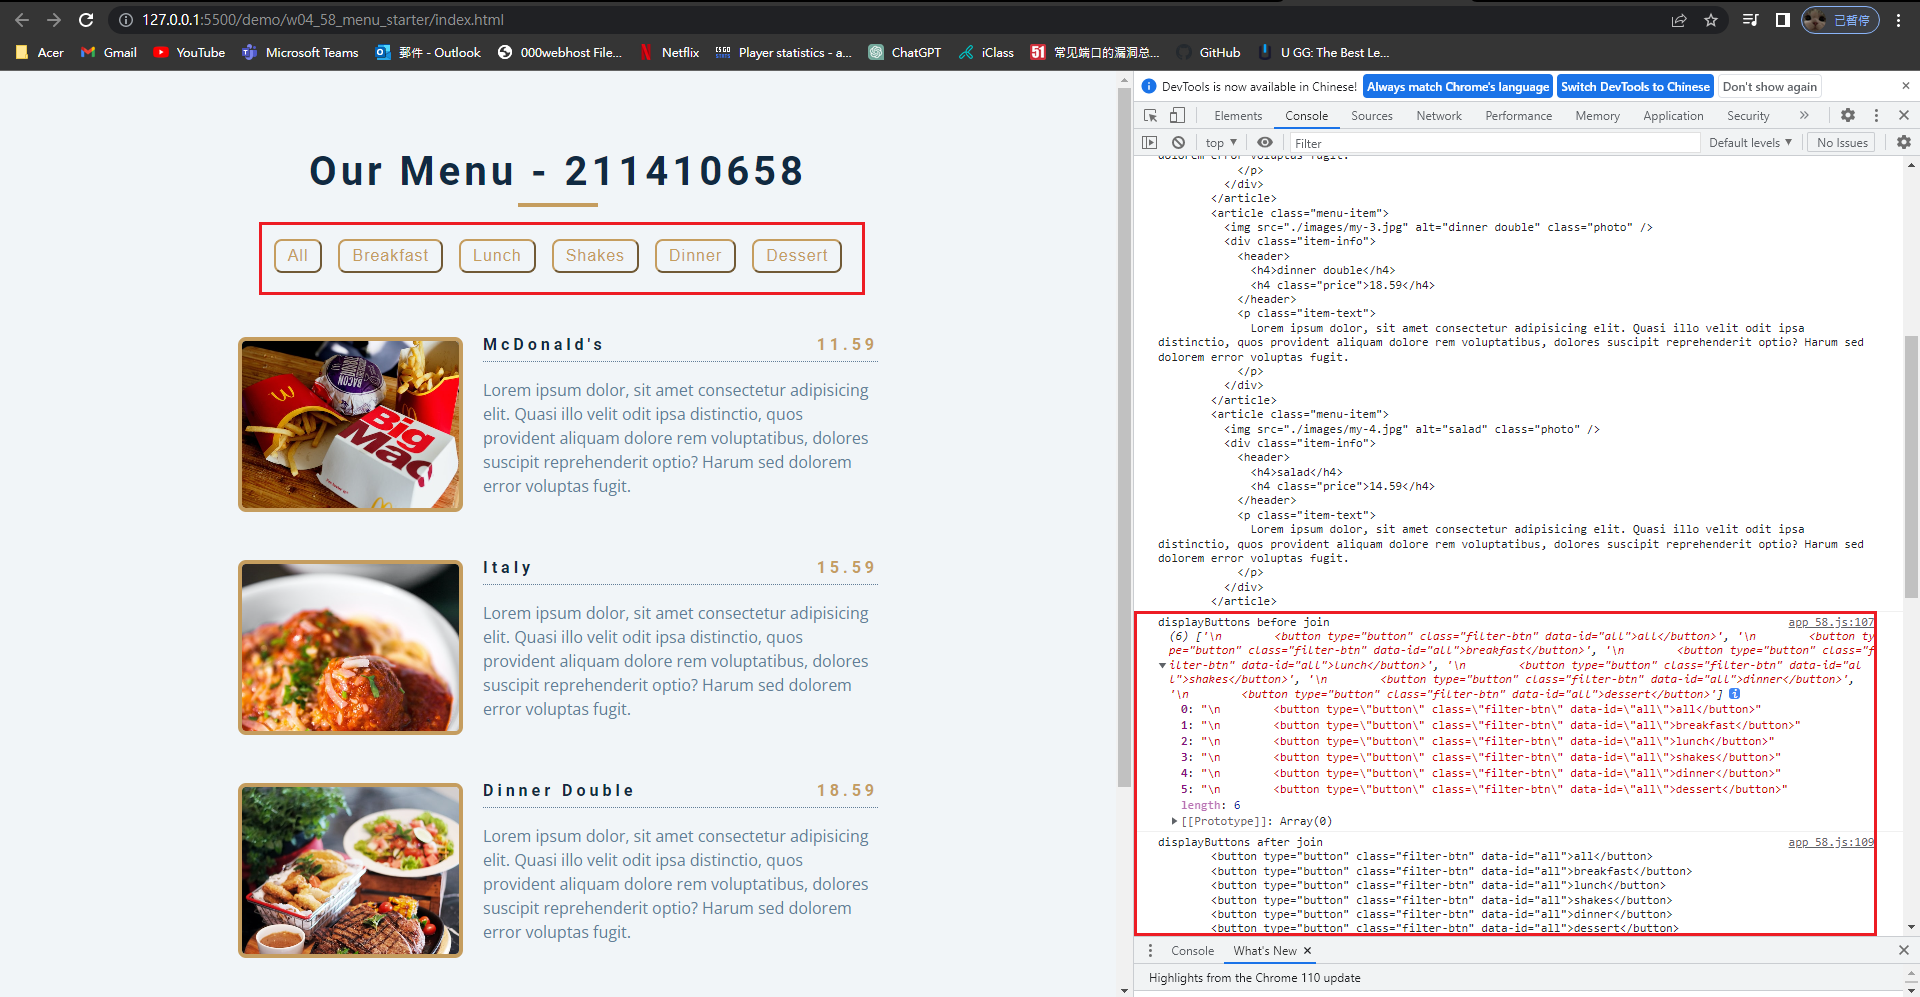
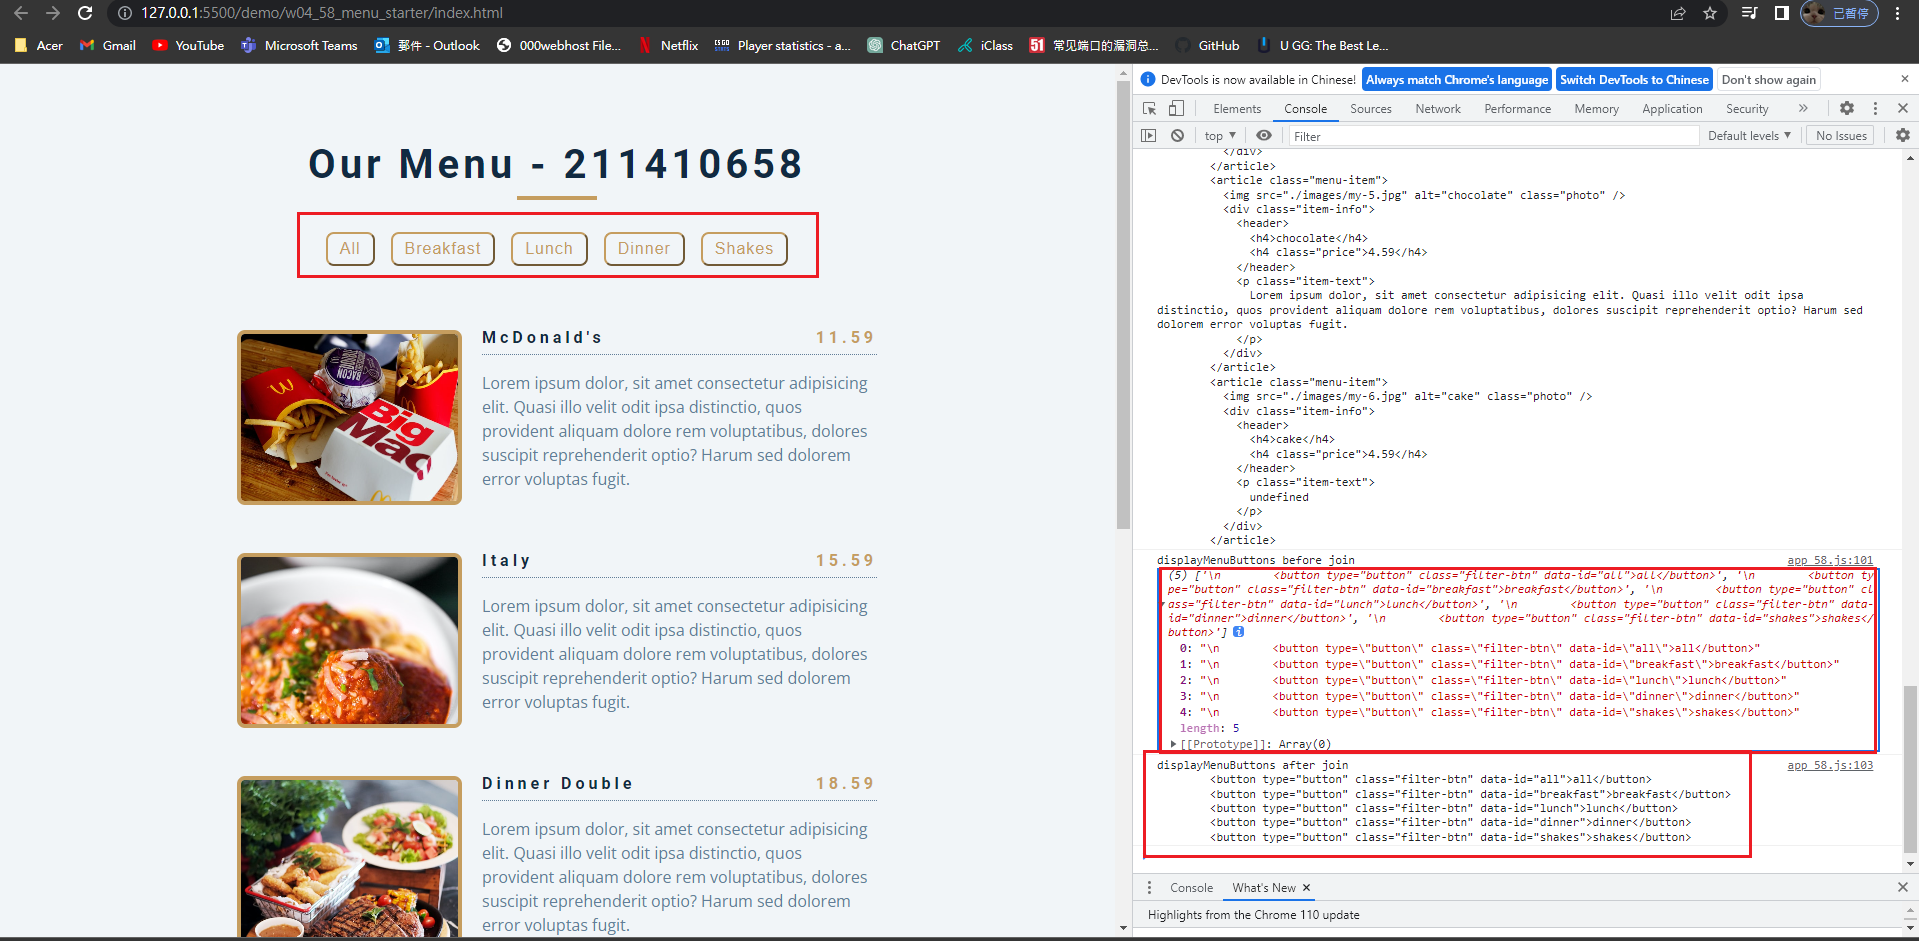
W04-P4: get buttons from menu array, add 'all' at the beginning (section-center)

diff --git a/demo/w04_58_menu_starter/app_58.js b/demo/w04_58_menu_starter/app_58.js
@@ -29,11 +29,30 @@ const menu = [
     {
         id: 4,
         title: 'salad',
-        category: 'dinner',
+        category: 'salad',
         price: 14.59,
         img: './images/my-4.jpg',
         remote_img: 'https://slyliryvslfzxeqslixp.supabase.co/storage/v1/object/public/demo-58/md_1N_img/my-4.jpg',
         desc: 'Lorem ipsum dolor, sit amet consectetur adipisicing elit. Quasi illo velit odit ipsa distinctio, quos provident aliquam dolore rem voluptatibus, dolores suscipit reprehenderit optio? Harum sed dolorem error voluptas fugit.'
+    },
+    {
+        id: 5,
+        title: 'chocolate',
+        category: 'dessert',
+        price: 4.59,
+        img: './images/my-5.jpg',
+        remote_img: '',
+        desc: 'Lorem ipsum dolor, sit amet consectetur adipisicing elit. Quasi illo velit odit ipsa distinctio, quos provident aliquam dolore rem voluptatibus, dolores suscipit reprehenderit optio? Harum sed dolorem error voluptas fugit.'
+    },
+    {
+        
+        id: 6,
+        title: 'cake',
+        category: 'dessert',
+        price: 4.59,
+        img: './images/my-6.jpg',
+        remote_img: '',
+        
     }
 ];
 
@@ -71,6 +90,7 @@ window.addEventListener('DOMContentLoaded', () => {
 
 /*buttons*/
 const category = ['all', ...new Set(menu.map((item) => item.category))];
+/*const category = ['all', 'breakfast', 'lunch', 'dinner', 'shakes'];*/
 console.log(category);
 
 const displayMenuButtons = () => {

diff --git a/demo/md/w04_58/w04_58.md b/demo/md/w04_58/w04_58.md
@@ -24,3 +24,12 @@ including (all, breakfast, lunch, dinner, shakes)
 ![w04-p3-1.png](https://slyliryvslfzxeqslixp.supabase.co/storage/v1/object/public/demo-58/md_1N_img/w04-p3-1.png)
 
 ![w04-p3-2.png](https://slyliryvslfzxeqslixp.supabase.co/storage/v1/object/public/demo-58/md_1N_img/w04-p3-2.png)
+
+```
+0fe91c0 anan826 Thu Mar 9 21:12:25 2023 +0800   W04-P3: show all filter buttons into html (section-center)
+```
+
+### W04-P4: get buttons from menu array, add 'all' at the beginning (section-center)
+
+![w04-p4-1](https://slyliryvslfzxeqslixp.supabase.co/storage/v1/object/public/demo-58/md_1N_img/w04-p4-1.png)
+![w04-p4-2](https://slyliryvslfzxeqslixp.supabase.co/storage/v1/object/public/demo-58/md_1N_img/w04-p4-2.png)
